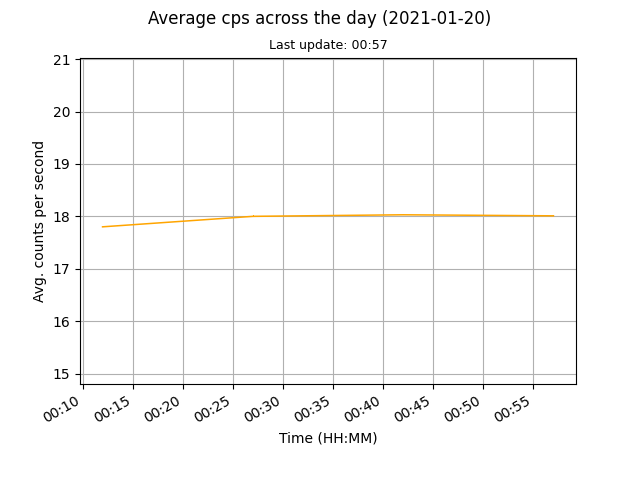
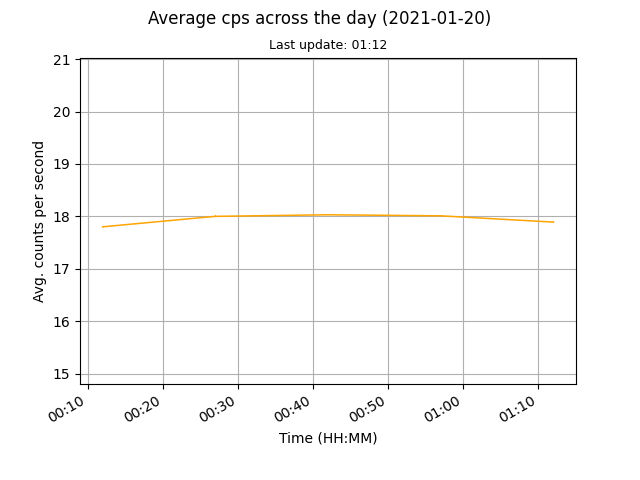
auto data update

diff --git a/docs/index.html b/docs/index.html
@@ -45,8 +45,8 @@
 	
 	<br>
 	
-	<p>Current counts per second (cps): 18.01</p>
-	<p>Last update: 2021-01-20, 00:57</p>
+	<p>Current counts per second (cps): 17.89</p>
+	<p>Last update: 2021-01-20, 01:12</p>
 
 	<p><a href="images/monthly.png"><img src="images/monthly.png" alt="Mothly avg cps data"></a><a href="images/daily.png"><img src="images/daily.png" alt="Daily avg cps data"></a></p>
 	
